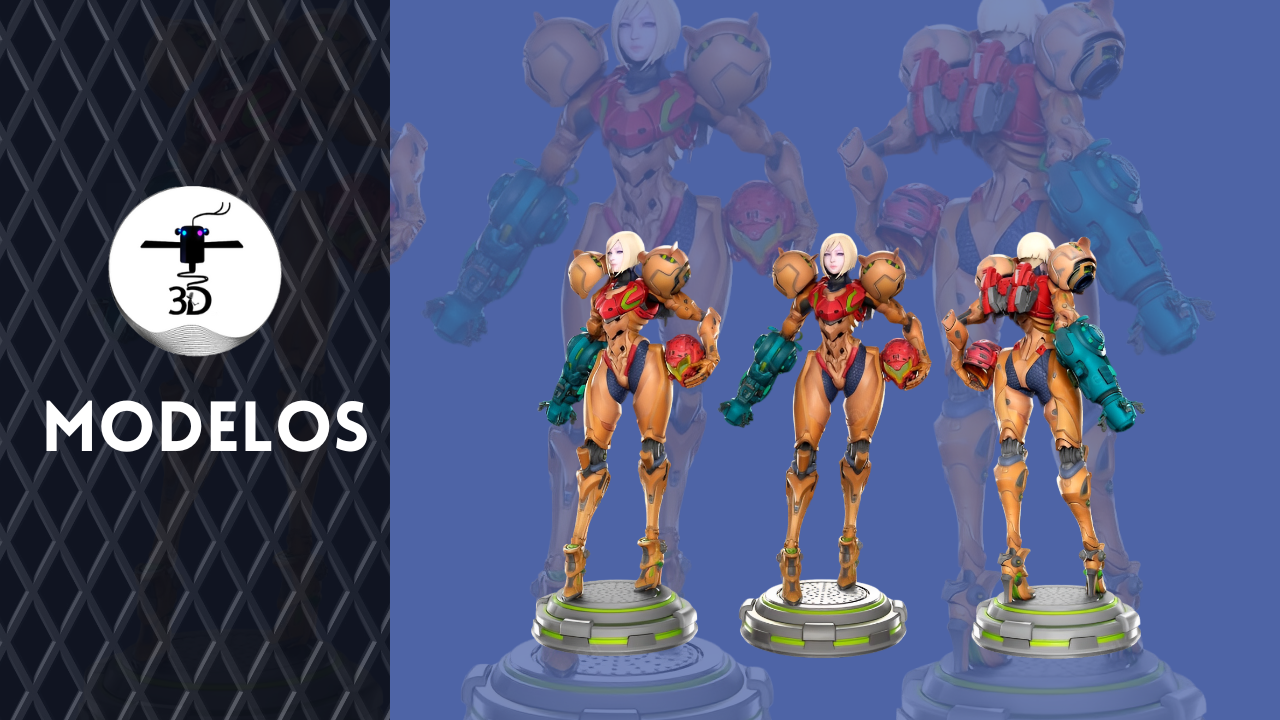
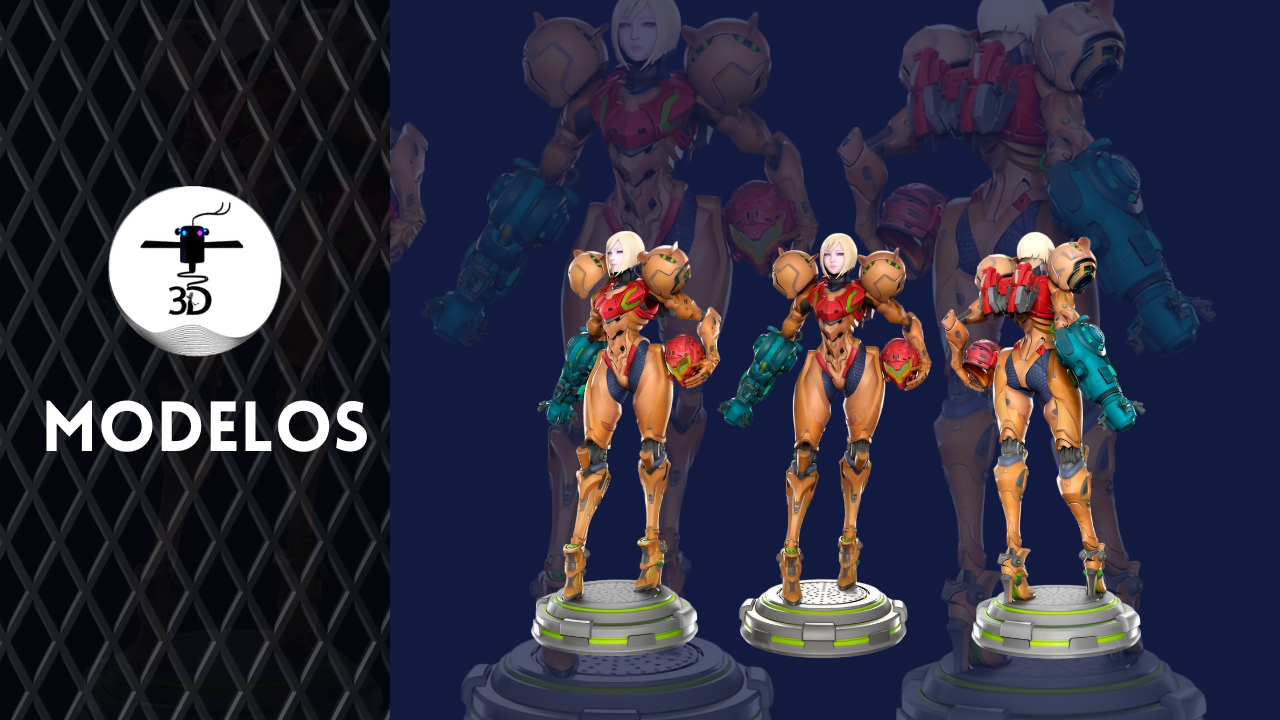
nova imagens de fundo modelo

diff --git a/index.html b/index.html
@@ -61,9 +61,6 @@
             </div>
         </div>
 
-        <!--configuraçao divisao -->
-        <div class="colorido"></div>
-        
         <!--Configuração do conteudo da parte 1-->  
         <section>
             <div id="sobrenos">
@@ -97,8 +94,10 @@
             </div>
         </div>
 
-        <!--Configuração do conteudo da parte 3--> 
+        <!--imagem de quebra de pagina-->
         <img class="imgquebra" src="html/img/p.inicial/divcima.png" alt="divisao de pagina">
+
+        <!--Configuração do conteudo da parte 3--> 
         <div id="infeqp">
             <div class="inftexto" anime-scroll="esquerda">
                 <h2>IMPRESSORA 3D UTILIZADAS</h2>
@@ -109,6 +108,8 @@
                 <img src="html/img/p.inicial/impressora3d.png" alt="imagem de modelo 3d" anime-scroll="direita">
             </div>
         </div>
+
+        <!--imagem de quebra de pagina-->
         <img class="imgquebra" src="html/img/p.inicial/divibaixo.png" alt="divisao de pagina">
 
         <!--Configuração do conteudo da parte 4--> 

diff --git a/html/modelo.html b/html/modelo.html
@@ -5,7 +5,7 @@
     <meta http-equiv="X-UA-Compatible" content="IE=edge">
     <meta name="viewport" content="width=device-width, initial-scale=1.0">
     <title>3D Printing</title>
-    <link rel="shortcut icon" href="../img/favicon.ico" type="image/x-icon">
+    <link rel="shortcut icon" href="img/p.inicial/favicon.ico" type="image/x-icon">
     
     <!--configuração da barra de menu css-->
     <link rel="stylesheet" href="../css/menu.css">
@@ -42,7 +42,8 @@
     <main id="modelo">
         <div>
             <picture>
-                <source media="(max-width: 850px)" srcset="img/p.modelo/modelomobile.png" />
+                <source media="(max-width: 550px)" srcset="img/p.modelo/modelomobile.png" />
+                <source media="(max-width: 950px)" srcset="img/p.modelo/modelotablet.png" />
                 <img src="img/p.modelo/modelodesktop.png" alt="" />
             </picture> 
         </div>

diff --git a/css/conteudo.css b/css/conteudo.css
@@ -25,6 +25,7 @@
 }
 [anime-scroll="esquerda"]{
     transform: translate3d(-50px, 0, 0);
+    transition: 1s;
 }
 [anime-scroll="esquerda1"]{
     transform: translate3d(-50px, 0, 0);
@@ -40,13 +41,15 @@
 }
 [anime-scroll="direita"]{
     transform: translate3d(50px, 0, 0);
+    transition: 1s;
 }
 [anime-scroll="cima"]{
     transform: translate3d(0px, -50px, 0);
+    transition: 1s;
 }
 [anime-scroll="baixo"]{
     transform: translate3d(0px, 50px, 0);
-    transition: 0.3s;
+    transition: 1s;
 }
 [anime-scroll].anime{
     opacity: 1;
@@ -222,7 +225,7 @@ section{
     border: 1px solid black;
     color: #131A40;
     background-color: white;
-    padding: 15px;
+    padding: 10px;
     border-radius: 10px;
     margin-bottom: 70px;
 }
@@ -242,6 +245,10 @@ section{
 }
 
 /*======= configuraçao footer =======*/
+footer{
+    width: 100%;
+}
+
 #footer{
     padding: 50px 0px;
     display: flex;

diff --git a/html/ajuda.html b/html/ajuda.html
@@ -5,7 +5,7 @@
     <meta http-equiv="X-UA-Compatible" content="IE=edge">
     <meta name="viewport" content="width=device-width, initial-scale=1.0">
     <title>3D Printing</title>
-    <link rel="shortcut icon" href="../img/favicon.ico" type="image/x-icon">
+    <link rel="shortcut icon" href="img/p.inicial/favicon.ico" type="image/x-icon">
     
     <!--configuração da barra de menu css-->
     <link rel="stylesheet" href="../css/menu.css">
@@ -17,7 +17,7 @@
 <body>
     <header>
         <div class="nav-bar">
-            <a href="" class="logo"><img src="../img/logo.png" alt="logo do site" style="height: 90px;"></a>
+            <a href="" class="logo"><img src="img/p.inicial/logo.png" alt="logo do site" style="height: 90px;"></a>
             <div class="navigation">
                 <div class="nav-items">
                     <i class="uil uil-times nav-close-btn"></i>

diff --git a/html/contato.html b/html/contato.html
@@ -5,7 +5,7 @@
     <meta http-equiv="X-UA-Compatible" content="IE=edge">
     <meta name="viewport" content="width=device-width, initial-scale=1.0">
     <title>3D Printing</title>
-    <link rel="shortcut icon" href="../img/favicon.ico" type="image/x-icon">
+    <link rel="shortcut icon" href="img/p.inicial/favicon.ico" type="image/x-icon">
     
     <!--configuração da barra de menu css-->
     <link rel="stylesheet" href="../css/menu.css">
@@ -17,7 +17,7 @@
 <body>
     <header>
         <div class="nav-bar">
-            <a href="" class="logo"><img src="../img/logo.png" alt="logo do site" style="height: 90px;"></a>
+            <a href="" class="logo"><img src="img/p.inicial/logo.png" alt="logo do site" style="height: 90px;"></a>
             <div class="navigation">
                 <div class="nav-items">
                     <i class="uil uil-times nav-close-btn"></i>

diff --git a/html/galeria.html b/html/galeria.html
@@ -5,7 +5,7 @@
     <meta http-equiv="X-UA-Compatible" content="IE=edge">
     <meta name="viewport" content="width=device-width, initial-scale=1.0">
     <title>3D Printing</title>
-    <link rel="shortcut icon" href="../img/favicon.ico" type="image/x-icon">
+    <link rel="shortcut icon" href="img/p.inicial/favicon.ico" type="image/x-icon">
     
     <!--configuração da barra de menu css-->
     <link rel="stylesheet" href="../css/menu.css">
